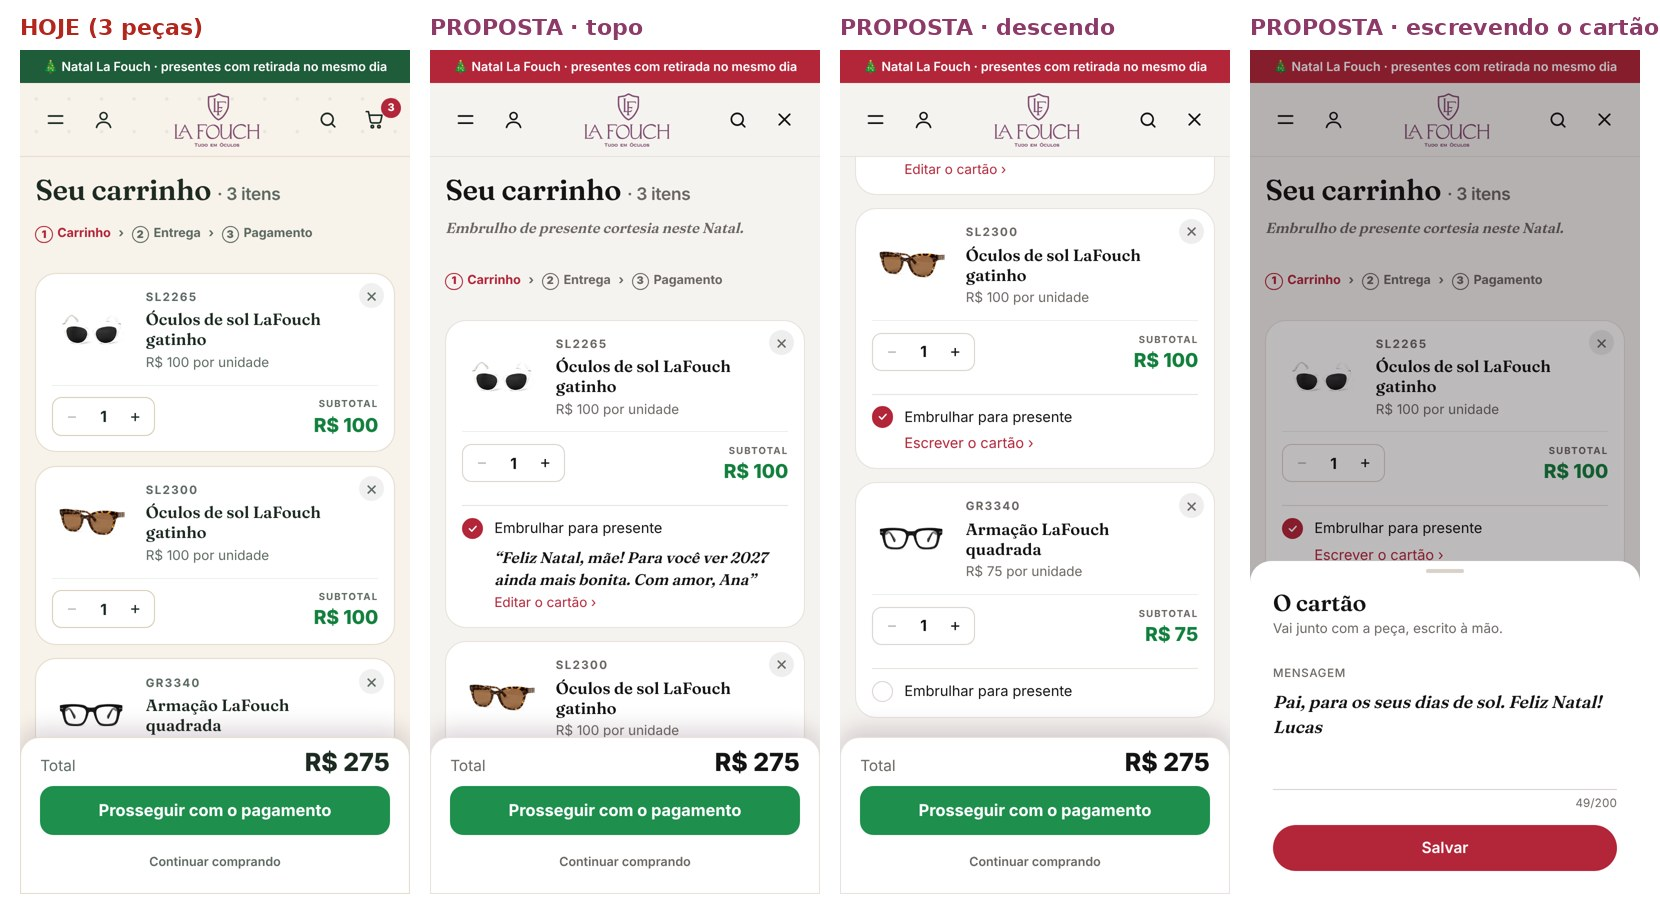
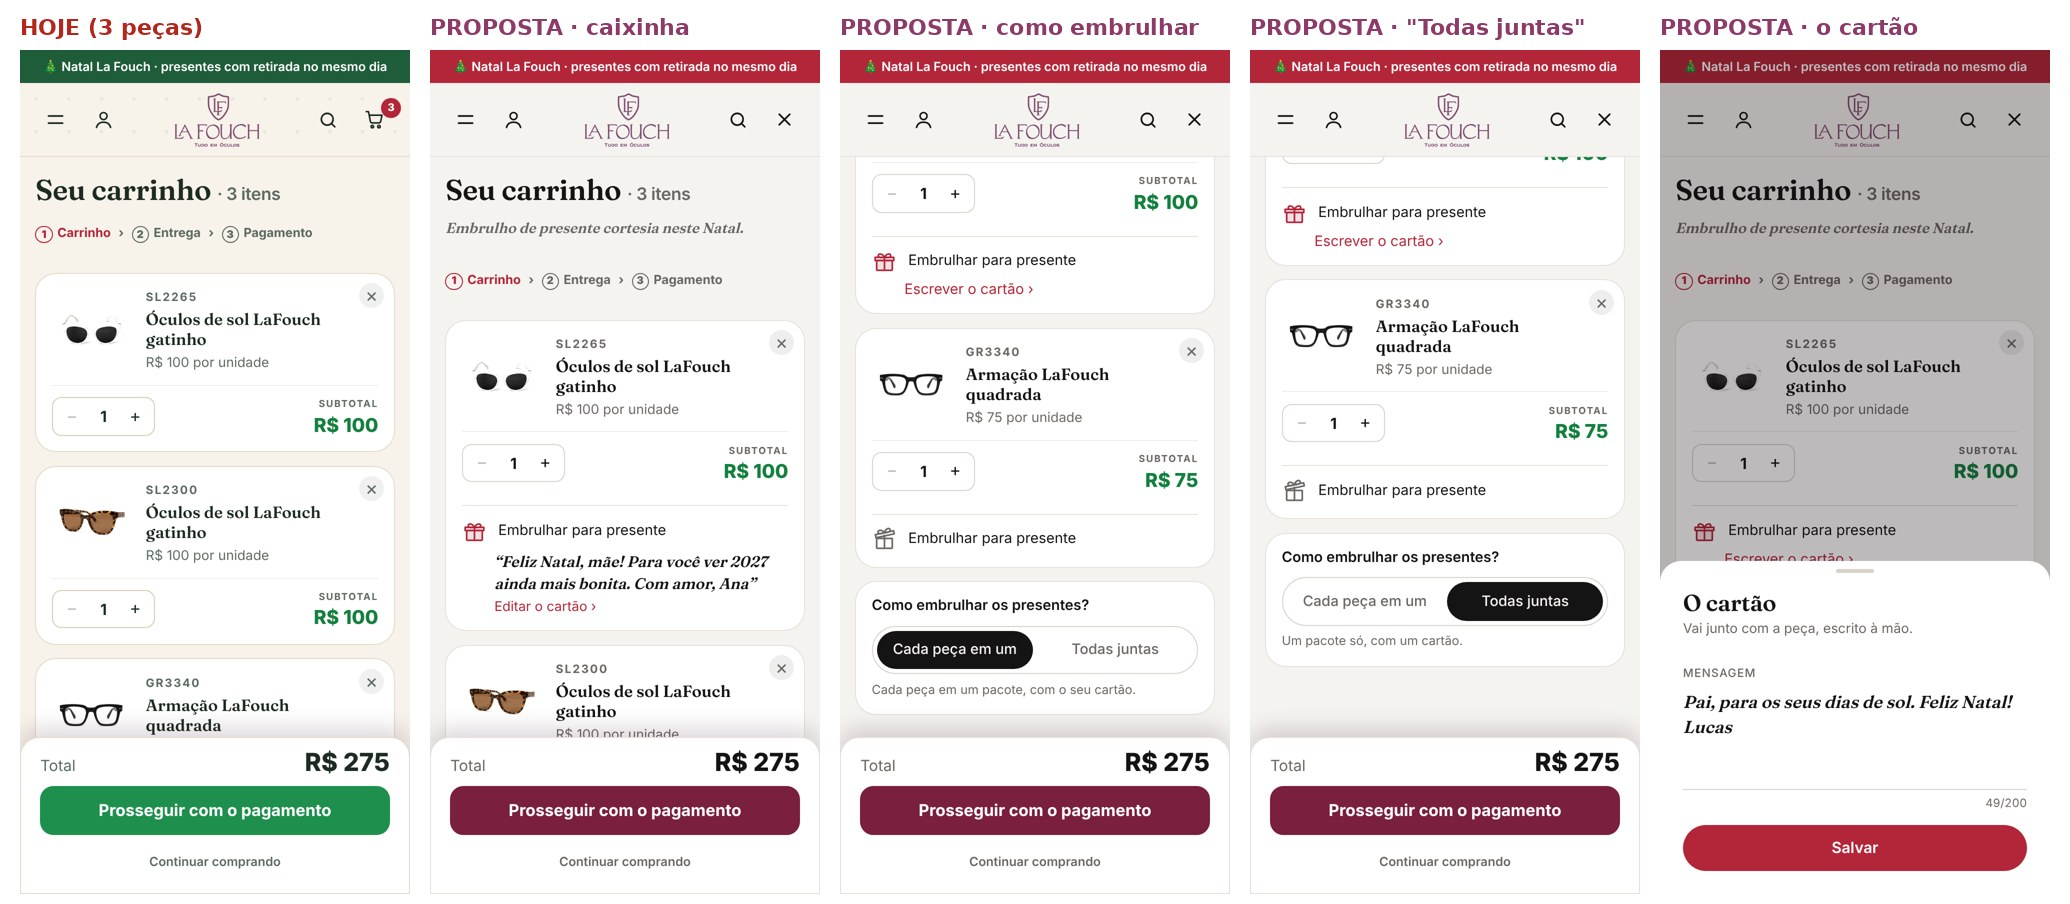
IDEIAS 06g v3: caixinha, pacotes, botão vinho
Claude-Session: https://claude.ai/code/session_01Vj5GPUFeJEi6bkCKreWEih

diff --git a/work/ideias/06-tematica/presente2.py b/work/ideias/06-tematica/presente2.py
@@ -8,8 +8,14 @@ O Resumo conta: 'Presentes · 2 embrulhos · cortesia'. Palavras de luxo: 'corte
 Sai a versão v1 (cartão separado com Não|Sim). Uso: python3 presente2.py → /tmp/a6fp3 (:8738)"""
 import shutil
 CSS = (".lfgw{grid-column:1/-1;flex:0 0 100%;width:100%}.lfgl{display:flex;align-items:center;gap:12px;margin-top:12px;padding-top:12px;border-top:1px solid var(--ln);cursor:pointer;font:400 15px Inter,sans-serif;color:var(--tx)}"
-       ".lfgl .ck{width:22px;height:22px;border-radius:50%;border:1px solid var(--ln2);display:grid;place-items:center;flex:none;transition:background .3s,border-color .3s}"
-       ".lfgl.on .ck{background:var(--act,var(--ac));border-color:var(--act,var(--ac))}.lfgl .ck svg{opacity:0;transition:opacity .3s}.lfgl.on .ck svg{opacity:1}"
+       ".lfgl .ck{width:26px;height:26px;display:grid;place-items:center;flex:none;color:var(--mu);transition:color .42s cubic-bezier(.16,1,.3,1)}"
+       ".lfgl .ck .tp{transform-origin:12px 9px;transform:translateY(-2.5px) rotate(-12deg);transition:transform .42s cubic-bezier(.16,1,.3,1)}"
+       ".lfgl .ck .cx{fill:transparent;transition:fill .42s cubic-bezier(.16,1,.3,1)}"
+       ".lfgl.on .ck{color:var(--act,var(--ac))}.lfgl.on .ck .tp{transform:none}.lfgl.on .ck .cx{fill:color-mix(in srgb,var(--act,var(--ac)) 14%,transparent)}"
+       ".lfgpk{margin:0 0 16px;padding:16px;border-radius:22px;background:var(--pn);border:1px solid var(--ln)}.lfgpk b{display:block;font:600 15px Inter,sans-serif;color:var(--tx);margin-bottom:12px}"
+       ".lfgpk .dl{display:flex;border:1px solid var(--ln2);border-radius:999px;padding:4px;gap:4px}.lfgpk .dl button{all:unset;flex:1;text-align:center;height:40px;line-height:40px;border-radius:999px;font:500 15px Inter,sans-serif;color:var(--mu);text-transform:none!important;letter-spacing:0!important}"
+       ".lfgpk .dl button.on{background:var(--tx);color:var(--bg)}.lfgpk p{font:400 13px/1.4 Inter,sans-serif;color:var(--mu);margin:8px 0 0}"
+       "#layer .cartp .cs-b,#layer .cartp .btn.w{background:#7a1f3d!important;border-color:#7a1f3d!important}"
        ".lfgm{margin:8px 0 0 34px;font:400 15px Inter,sans-serif}.lfgm a{color:var(--act,var(--ac));text-decoration:none}"
        ".lfgm q{display:block;font:italic 500 16px/1.45 Fraunces,serif;color:var(--tx);quotes:'“' '”'}.lfgm .ed{display:inline-block;margin-top:4px;font-size:14px}"
        ".lfgtop{font:italic 500 15px Fraunces,serif;color:var(--mu);margin:0 0 16px}"
@@ -20,7 +26,9 @@ CSS = (".lfgw{grid-column:1/-1;flex:0 0 100%;width:100%}.lfgl{display:flex;align
        ".lfgsh textarea{all:unset;display:block;width:100%;min-height:96px;font:italic 500 18px/1.45 Fraunces,serif;color:var(--tx);margin-top:6px}"
        ".lfgsh .ct{text-align:right;font:400 12px Inter,sans-serif;color:var(--mu);margin:6px 0 16px;font-variant-numeric:tabular-nums}"
        ".lfgsh .sv{display:flex;align-items:center;justify-content:center;height:48px;border-radius:999px;background:var(--act,var(--ac));color:#fff;font:600 16px Inter,sans-serif}")
-CK = '<svg width="12" height="12" viewBox="0 0 24 24" fill="none" stroke="#fff" stroke-width="3" stroke-linecap="round" stroke-linejoin="round"><path d="M5 12l5 5 9-10"/></svg>'
+CK = ('<svg width="26" height="26" viewBox="0 0 24 24" fill="none" stroke="currentColor" stroke-width="1.6" stroke-linecap="round" stroke-linejoin="round" aria-hidden="true">'
+      '<g class="tp"><path d="M3 9h18v3H3z"/><path d="M12 9c-2-4-6-4-6-1.5S12 9 12 9zm0 0c2-4 6-4 6-1.5S12 9 12 9z"/></g>'
+      '<path class="cx" d="M4.5 12h15v8.5a1 1 0 0 1-1 1h-13a1 1 0 0 1-1-1z"/><path d="M12 9v12.5"/></svg>')
 JS = ("\n/* PINTURA · IDEIAS 06g v2: presente por peça */\n(function(){var s=document.createElement('style');s.textContent=%r;document.head.appendChild(s);var CK=%r;window.__lfG={};"
       "function cards(p){return [].filter.call(p.querySelectorAll('*'),function(e){return e.querySelector&&e.querySelector('.crl')&&!e.parentElement.closest('.lfcard')&&getComputedStyle(e).borderTopLeftRadius!=='0px'&&e.getBoundingClientRect().width>300&&!e.querySelector('*[style*=\"border-top-left-radius\"]')})}"
       "function linha(c,ref){var g=window.__lfG[ref]||{};var l=c.querySelector('.lfgl');if(!l){var w=document.createElement('div');w.className='lfgw';if(getComputedStyle(c).display.indexOf('flex')>=0)c.style.flexWrap='wrap';c.appendChild(w);l=document.createElement('div');l.className='lfgl';l.innerHTML='<span class=\"ck\">'+CK+'</span><span>Embrulhar para presente</span>';w.appendChild(l);"
@@ -31,9 +39,12 @@ JS = ("\n/* PINTURA · IDEIAS 06g v2: presente por peça */\n(function(){var s=d
       "function folha(c,ref){var g=window.__lfG[ref];var f=document.createElement('div');f.className='lfgsh';f.innerHTML='<div class=\"pn\"><div class=\"gr\"></div><h3>O cartão</h3><p>Vai junto com a peça, escrito à mão.</p><label class=\"cp\"><small>Mensagem</small><textarea maxlength=\"200\"></textarea></label><div class=\"ct\">0/200</div><div class=\"sv\" role=\"button\">Salvar</div></div>';"
       " document.body.appendChild(f);var t=f.querySelector('textarea');t.value=g.msg||'';var ct=f.querySelector('.ct');function n(){ct.textContent=t.value.length+'/200'}n();t.oninput=n;"
       " f.onclick=function(e){if(e.target===f)f.remove()};f.querySelector('.sv').onclick=function(){g.msg=t.value.trim();f.remove();linha(c,ref)};window.__lfFolha=f}"
-      "function resumo(){var n=0;for(var k in window.__lfG)if(window.__lfG[k].on)n++;var p=document.querySelector('#layer .cartp');if(!p)return;var r=p.querySelector('.lfgres');"
+      "function resumo(){var n=0;for(var k in window.__lfG)if(window.__lfG[k].on)n++;var p=document.querySelector('#layer .cartp');if(!p)return;"
+      " var pk=p.querySelector('.lfgpk');if(n>=2&&!pk){var ult=[].slice.call(p.querySelectorAll('.lfgw')).pop();var card=ult&&ult.parentElement;pk=document.createElement('div');pk.className='lfgpk';pk.innerHTML='<b>Como embrulhar os presentes?</b><div class=\"dl\"><button class=\"on\" data-j=\"0\">Cada peça em um</button><button data-j=\"1\">Todas juntas</button></div><p>Cada peça em um pacote, com o seu cartão.</p>';card.parentNode.insertBefore(pk,card.nextSibling);"
+      "  pk.querySelectorAll('button').forEach(function(b){b.onclick=function(){pk.querySelectorAll('button').forEach(function(x){x.classList.toggle('on',x===b)});window.__lfJunto=b.dataset.j==='1';pk.querySelector('p').textContent=window.__lfJunto?'Um pacote só, com um cartão.':'Cada peça em um pacote, com o seu cartão.'}})}"
+      " if(pk)pk.style.display=n>=2?'':'none';var r=p.querySelector('.lfgres');"
       " var ent=[].find.call(p.querySelectorAll('span'),function(x){return x.textContent.trim()==='Entrega'});if(!ent)return;var row=ent.parentElement;"
-      " if(!r){r=row.cloneNode(true);r.classList.add('lfgres');row.parentNode.insertBefore(r,row.nextSibling)}r.style.display=n?'':'none';r.children[0].textContent='Presentes';r.children[1].textContent=n+(n>1?' embrulhos':' embrulho')+' · cortesia'}"
+      " if(!r){r=row.cloneNode(true);r.classList.add('lfgres');row.parentNode.insertBefore(r,row.nextSibling)}r.style.display=n?'':'none';r.children[0].textContent='Presentes';r.children[1].textContent=(window.__lfJunto?'1 pacote':n+(n>1?' pacotes':' pacote'))+' · cortesia'}"
       "setInterval(function(){var p=document.querySelector('#layer .cartp');if(!p)return;"
       " if(!p.querySelector('.lfgtop')){var h=p.querySelector('h2');if(h){var t=document.createElement('p');t.className='lfgtop';t.textContent='Embrulho de presente cortesia neste Natal.';var st=h.parentElement.nextSibling;h.parentElement.parentNode.insertBefore(t,st)}}"
       " p.querySelectorAll('.crl').forEach(function(b){var c=b.closest('[class]');while(c&&!(getComputedStyle(c).borderTopLeftRadius!=='0px'&&c.getBoundingClientRect().width>300))c=c.parentElement;if(!c||c._lfg)return;c._lfg=1;"

diff --git a/work/ideias/06-tematica/COMO-FAZER.md b/work/ideias/06-tematica/COMO-FAZER.md
@@ -189,3 +189,16 @@ O que dá a sensação de neve, mesmo com só 8 flocos:
 - **Quantidade maior que 1 na mesma peça:** "Embrulhar cada uma separada" fica como pergunta para o dono. Proposta: um pacote por unidade, e o mesmo cartão vale para todas.
 - **Esboço:** `esboco-06g-presente.jpg` (Hoje com 3 peças | Proposta: topo, descendo, escrevendo o cartão).
 - **Notado, sem mudar:** o botão verde "Prosseguir com o pagamento" é a regra de cor de hoje (verde = certo). Fica para o dono decidir se no luxo ele vira a cor da marca.
+
+### 06g v3 (dono 22/11 15:46): caixinha, pacotes e botão principal
+- **A caixinha no lugar do círculo:**
+  - o ícone é uma caixinha de presente;
+  - desmarcada fica cinza, com a tampa levantada e inclinada;
+  - marcada, a tampa fecha (420 ms, a curva única), a caixinha ganha a cor da data e um fundo leve.
+- **Como a loja sabe os pacotes:** o cliente diz.
+  - Com **2 ou mais peças marcadas**, aparece abaixo das peças: "Como embrulhar os presentes?", com escolha de dois lados **Cada peça em um | Todas juntas**. Padrão: cada peça em um.
+  - **Todas juntas:** um pacote só, com **um** cartão. As linhas "Escrever o cartão" das peças viram uma só, dentro desse quadro. No esboço as linhas das peças ainda aparecem; o certo é juntar.
+  - **No pedido do app:** "Pacote 1: SL2265 · cartão '…'", "Pacote 2: SL2300 · sem cartão"; ou "Pacote único: SL2265 + SL2300 · cartão '…'".
+  - **Mais de uma unidade da mesma peça:** cada unidade é um pacote, com o mesmo cartão. Em "Todas juntas", vai tudo junto.
+- **Botão "Prosseguir com o pagamento" em vinho (`#7a1f3d`) no lugar do verde.** A regra 17 já diz "rosa/vinho = ação" e "verde = certo". Prosseguir é uma ação, então vinho é o certo, e é mais luxo. O verde fica para o que está certo (preços, "salvo").
+- **Esboço:** `esboco-06g-presente.jpg` (Hoje | caixinha | como embrulhar | Todas juntas | o cartão).
